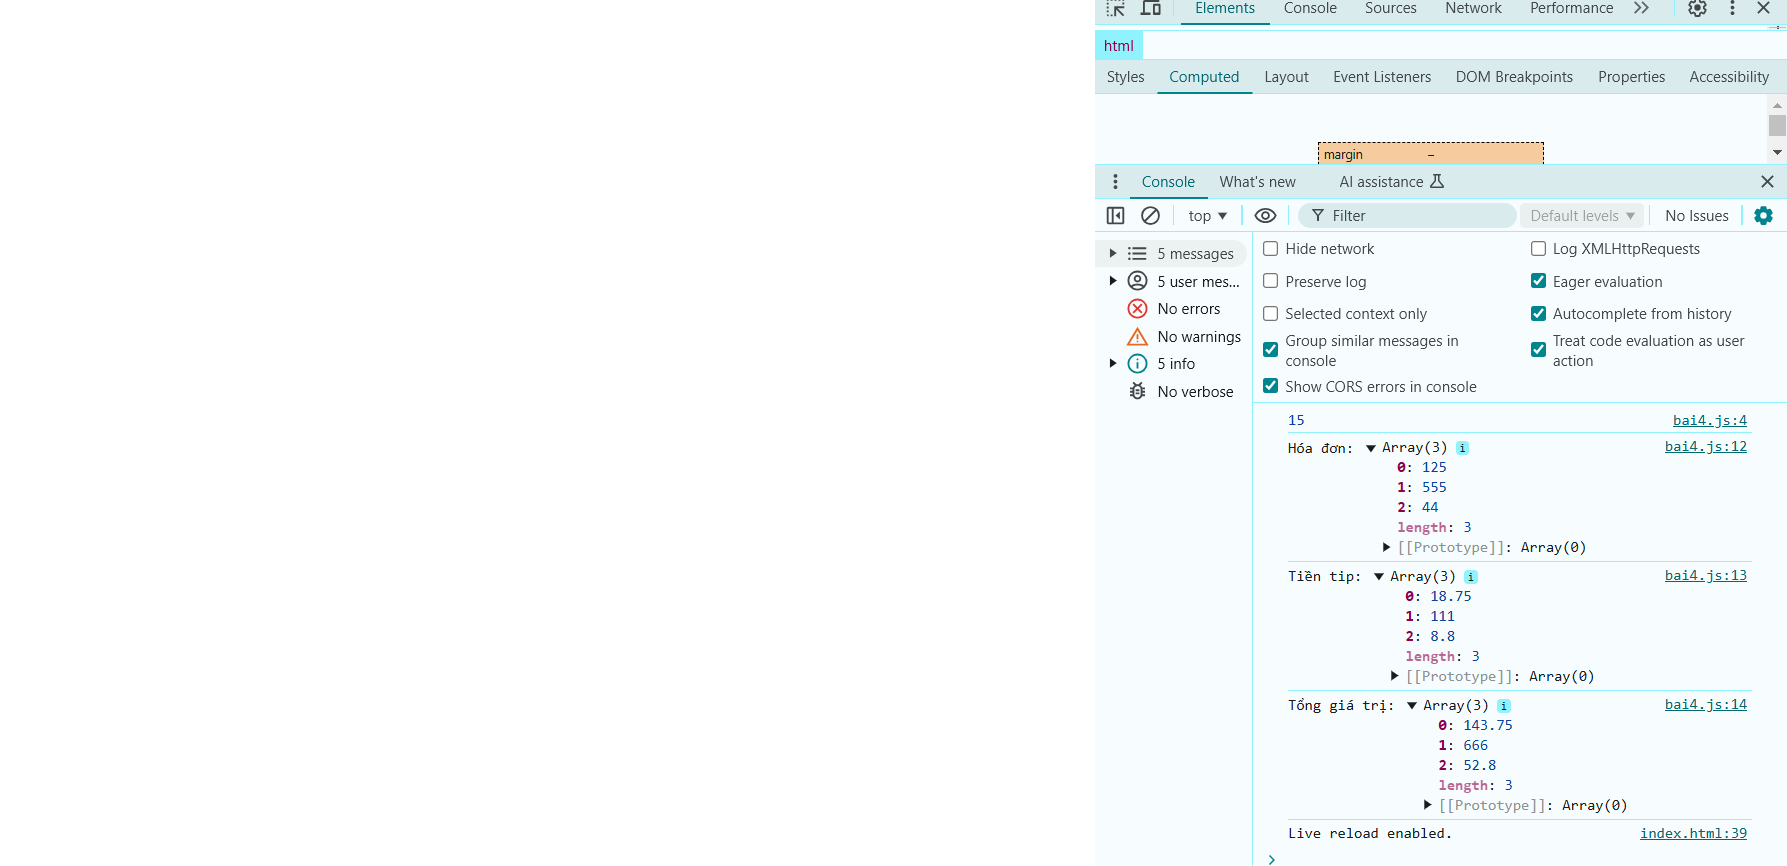
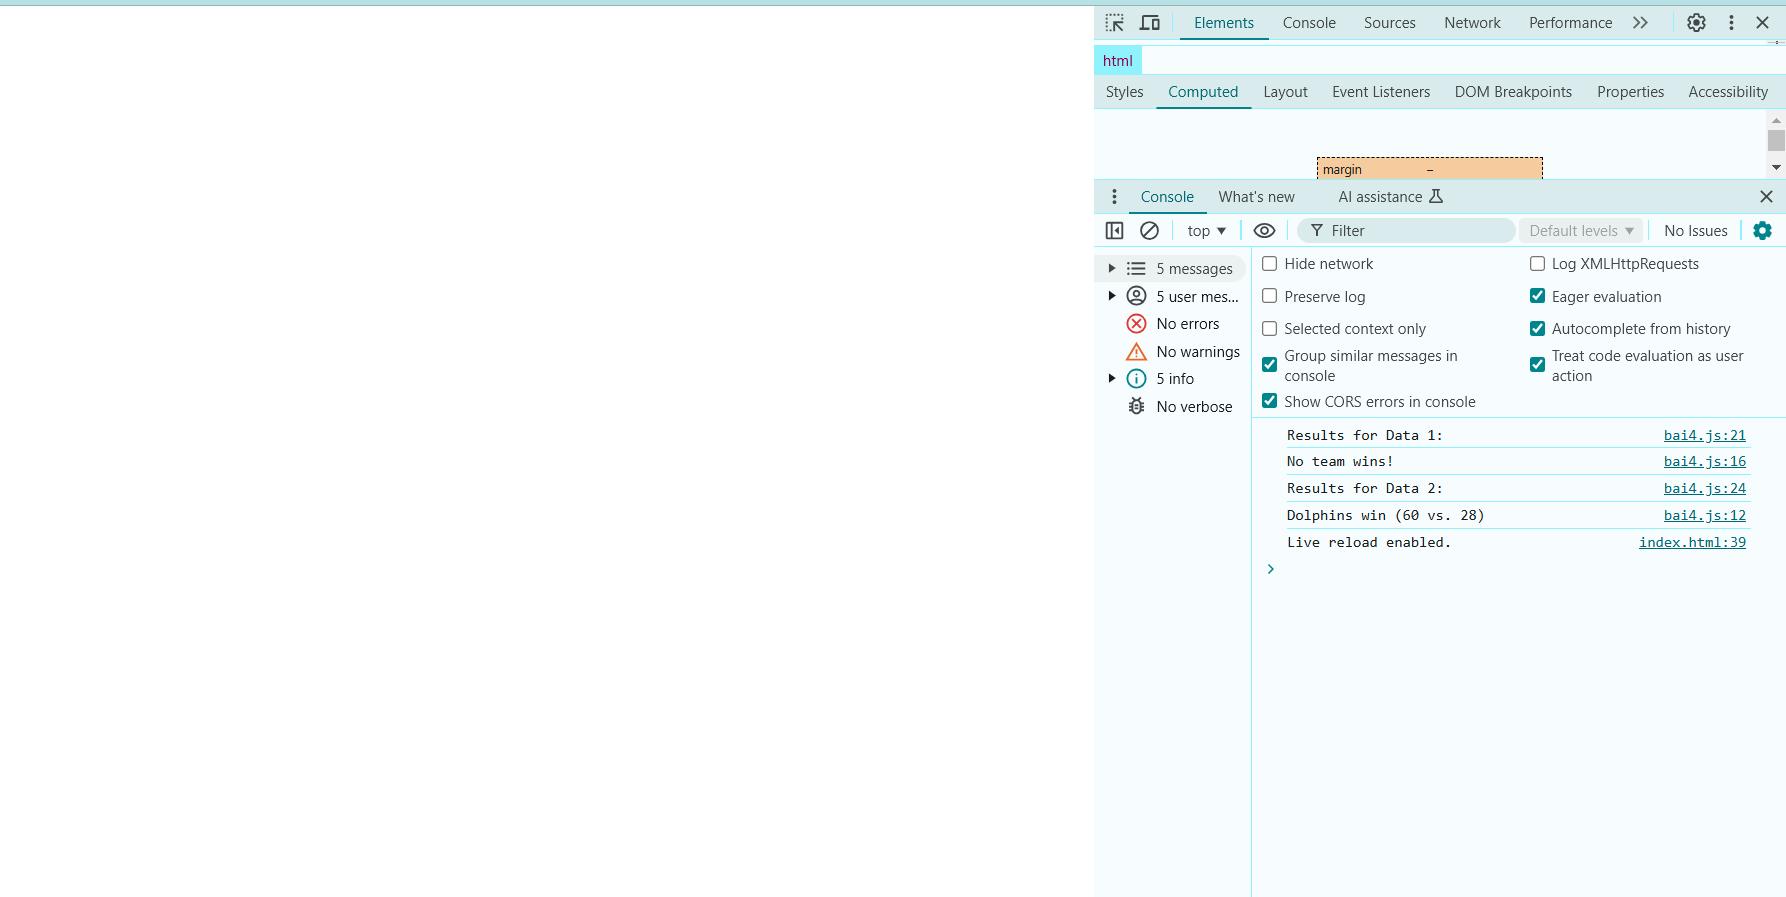
hoan thanh bai 4

diff --git a/bai4/bai4.js b/bai4/bai4.js
@@ -1,14 +1,25 @@
 
-const calcTip = (bill) => bill >= 50 && bill <= 300 ? bill * 0.15 : bill * 0.2;
+const calcAverage = (a, b, c) => (a + b + c) / 3;
 
-console.log(calcTip(100)); 
+const dolphinsData1 = calcAverage(44, 23, 71);
+const koalasData1 = calcAverage(65, 54, 49);
 
-const bills = [125, 555, 44];
+const dolphinsData2 = calcAverage(85, 54, 41);
+const koalasData2 = calcAverage(23, 34, 27);
 
-const tips = bills.map(calcTip);
+const checkWinner = (avgDolphins, avgKoalas) => {
+  if (avgDolphins >= 2 * avgKoalas) {
+    console.log(`Dolphins win (${avgDolphins} vs. ${avgKoalas})`);
+  } else if (avgKoalas >= 2 * avgDolphins) {
+    console.log(`Koalas win (${avgKoalas} vs. ${avgDolphins})`);
+  } else {
+    console.log('No team wins!');
+  }
+};
 
-const total = bills.map((bill, index) => bill + tips[index]);
+// Step 4: Determine the winner for both datasets
+console.log('Results for Data 1:');
+checkWinner(dolphinsData1, koalasData1);
 
-console.log("Hóa đơn:", bills);
-console.log("Tiền tip:", tips);
-console.log("Tổng giá trị:", total);
+console.log('Results for Data 2:');
+checkWinner(dolphinsData2, koalasData2);
